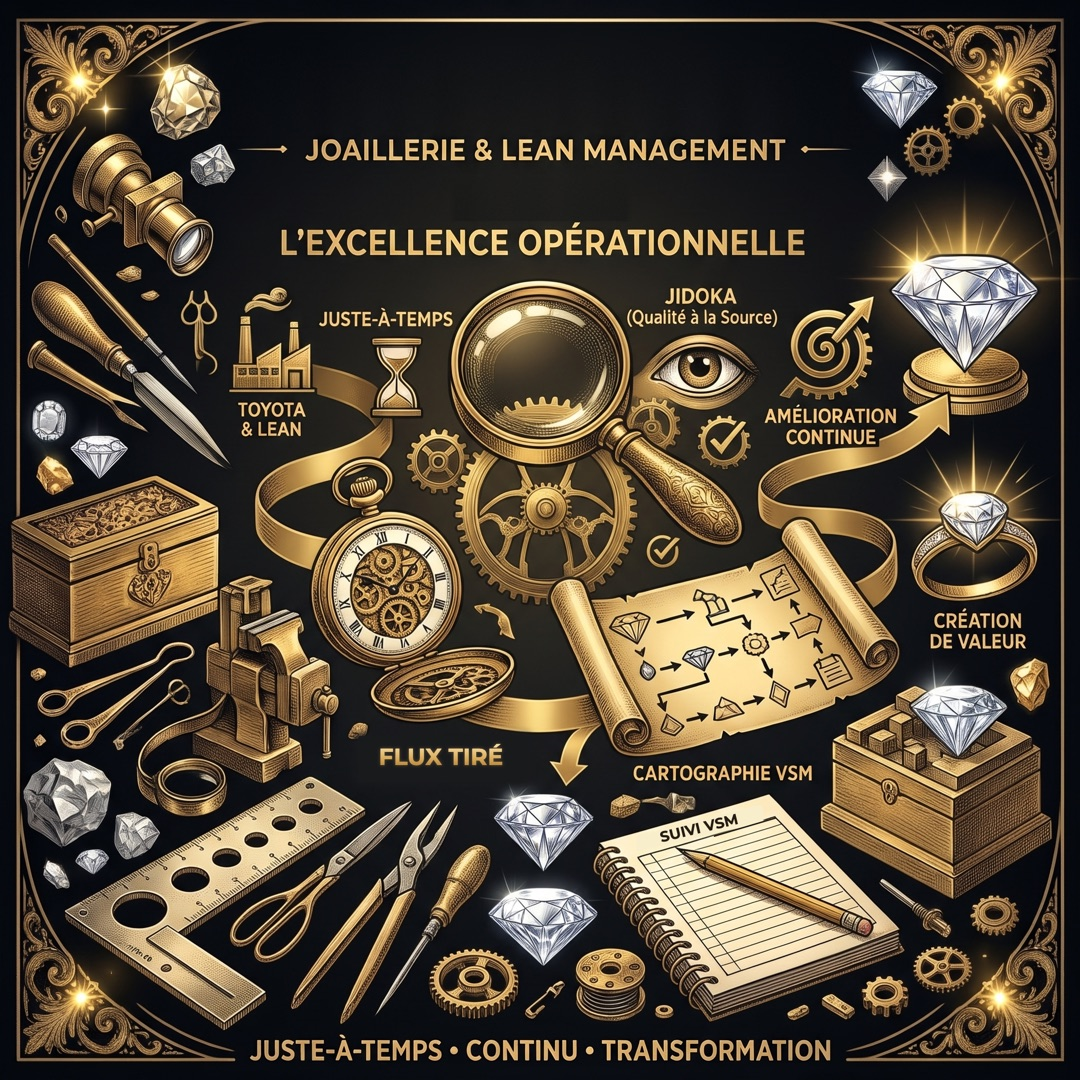
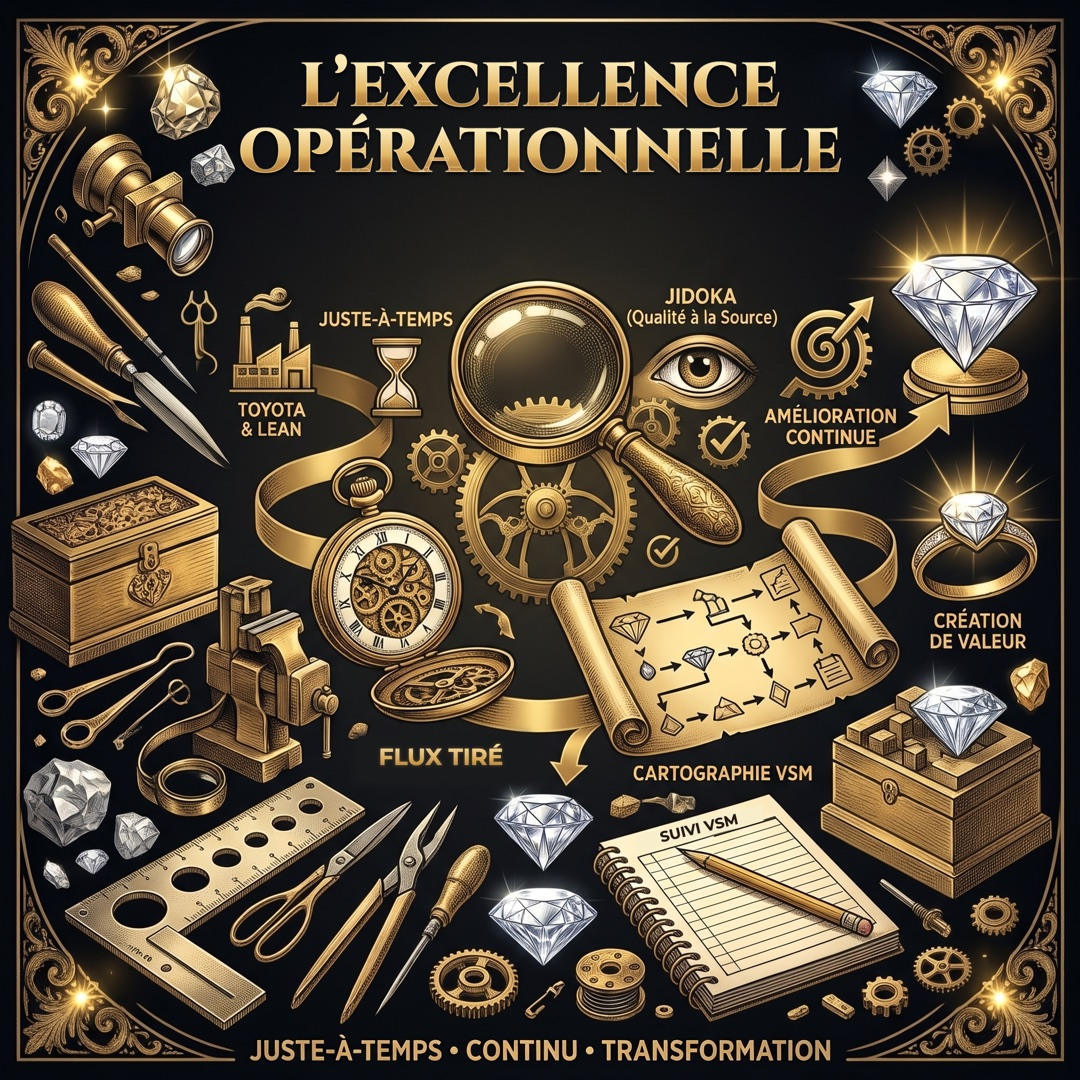
style: thème en titre en haut des illustrations 2 à 4
- Retire « JOAILLERIE & LEAN MANAGEMENT », « ÉPISODE N » et l'ancien thème
- Thème réécrit en haut en taille de titre (Cinzel doré)
- Fond reconstitué par diffusion multi-échelle (plus de raccords visibles)

Changed region(s): [[0.2139, 0.0306, 0.7944, 0.1833], [0.2444, 0.2139, 0.7639, 0.2444]]

diff --git a/design/retouches/retouch.html b/design/retouches/retouch.html
@@ -1,6 +1,6 @@
 <!doctype html>
 <html><head><meta charset="utf-8">
-<link href="https://fonts.googleapis.com/css2?family=Montserrat:wght@600;700&display=swap" rel="stylesheet">
+<link href="https://fonts.googleapis.com/css2?family=Cinzel:wght@700;800&family=Montserrat:wght@600;700&display=swap" rel="stylesheet">
 <style>html,body{margin:0;background:#000}canvas{display:block}</style>
 </head><body>
 <canvas id="c" width="2048" height="2048"></canvas>
@@ -9,7 +9,8 @@
 // Usage : retouch.html?ep=N  → rendu à capturer avec Chrome headless.
 //
 // Toutes les images : suppression du titre « L'ÉCLAT MAÎTRISÉ ».
-// Épisodes 2 à 4 : suppression de la ligne « ÉPISODE N ».
+// Épisodes 2 à 4 : suppression de « JOAILLERIE & LEAN MANAGEMENT », de la ligne
+// « ÉPISODE N » et du thème, puis thème réécrit en haut, en taille de titre.
 // Épisode 2 : corrections de texte (doublon Jidoka, faute sur le carnet).
 
 const EP = Number(new URLSearchParams(location.search).get('ep'));
@@ -17,58 +18,122 @@ const EP = Number(new URLSearchParams(location.search).get('ep'));
 // Zones à effacer [x0, y0, x1, y1] (coordonnées de l'original 2048 px)
 const ERASE = {
   1: [[432, 88, 1622, 250]],
-  2: [[432, 88, 1622, 250], [850, 332, 1200, 421, 'top']],
-  3: [[400, 70, 1650, 250], [560, 332, 1510, 421, 'top']],
-  4: [[400, 70, 1650, 250], [560, 332, 1510, 421, 'top']],
+  2: [[432, 88, 1622, 250], [450, 250, 1620, 320, 'top'], [850, 320, 1200, 421, 'top'], [500, 421, 1555, 496, 'top']],
+  3: [[400, 70, 1650, 250], [178, 236, 1870, 334], [560, 320, 1510, 421, 'top'], [690, 421, 1360, 496, 'top']],
+  4: [[400, 70, 1650, 250], [178, 236, 1870, 334], [560, 320, 1510, 421, 'top'], [735, 421, 1315, 496, 'top']],
+};
+
+// Thème réécrit en haut, en taille de titre : lignes, centres verticaux, largeur max
+const TITLE = {
+  2: { lines: ['L’EXCELLENCE', 'OPÉRATIONNELLE'], y: [175, 300], maxWidth: 1150, maxSize: 118 },
+  3: { lines: ['LES 7 GASPILLAGES'], y: [185], maxWidth: 1220, maxSize: 132 },
+  4: { lines: ['LE 5S À L’ÉTABLI'], y: [185], maxWidth: 1220, maxSize: 132 },
 };
 
 const lum = (r, g, b) => 0.2126 * r + 0.7152 * g + 0.0722 * b;
 
-// Reconstitue le fond d'une zone : pour chaque colonne, interpolation verticale
-// entre la teinte (pixels sombres) juste au-dessus et juste en dessous
-// (mode 'top' : teinte du dessus seulement, quand le dessous touche un texte),
-// léger grain pour imiter la texture, bords fondus dans l'original.
-function erase(ctx, [x0, y0, x1, y1, mode], feather = 14) {
-  const pad = 6, w = x1 - x0, h = y1 - y0;
-  const above = ctx.getImageData(x0, y0 - pad, w, pad).data;
-  const below = ctx.getImageData(x0, y1, w, pad).data;
-  const orig = ctx.getImageData(x0, y0, w, h);
-  const out = ctx.createImageData(w, h);
+// Reconstitue le fond de toutes les zones à la fois par diffusion (inpainting
+// harmonique multi-échelle) : chaque pixel effacé prend la moyenne de ses voisins,
+// jusqu'à un fond continu qui raccorde partout avec le pourtour, sans raccords.
+// Les pixels clairs du pourtour (texte, ornements) sont assombris pour ne pas
+// « baver » dans la zone. Un léger grain imite ensuite la texture.
+function eraseAll(ctx, zones) {
+  if (!zones.length) return;
+  const M = 24;
+  let bx0 = Math.min(...zones.map(z => z[0])) - M, by0 = Math.min(...zones.map(z => z[1])) - M;
+  let bx1 = Math.max(...zones.map(z => z[2])) + M, by1 = Math.max(...zones.map(z => z[3])) + M;
+  bx0 = Math.max(0, bx0); by0 = Math.max(0, by0); bx1 = Math.min(2048, bx1); by1 = Math.min(2048, by1);
+  const w = bx1 - bx0, h = by1 - by0, N = w * h;
+  const img = ctx.getImageData(bx0, by0, w, h);
+  const mask = new Uint8Array(N);
+  zones.forEach(([x0, y0, x1, y1]) => {
+    for (let y = y0; y < y1; y++) for (let x = x0; x < x1; x++) mask[(y - by0) * w + (x - bx0)] = 1;
+  });
+  const C = [new Float32Array(N), new Float32Array(N), new Float32Array(N)];
+  const CAP = 55;
+  for (let i = 0; i < N; i++) {
+    let r = img.data[i * 4], g = img.data[i * 4 + 1], b = img.data[i * 4 + 2];
+    const l = lum(r, g, b);
+    if (!mask[i] && l > CAP) { const f = CAP / l; r *= f; g *= f; b *= f; }
+    C[0][i] = r; C[1][i] = g; C[2][i] = b;
+  }
 
-  const strip = (data, x) => {
-    let r = 0, g = 0, b = 0, n = 0;
-    for (let dx = -16; dx <= 16; dx += 2) {
-      const xx = Math.min(w - 1, Math.max(0, x + dx));
-      for (let y = 0; y < pad; y++) {
-        const i = (y * w + xx) * 4;
-        if (lum(data[i], data[i + 1], data[i + 2]) < 45) { r += data[i]; g += data[i + 1]; b += data[i + 2]; n++; }
+  // 1) Grossier (cellules de 8 px) : beaucoup d'itérations pour les grandes longueurs d'onde
+  const F = 8, cw = Math.ceil(w / F), ch = Math.ceil(h / F), CN = cw * ch;
+  const cknown = new Uint8Array(CN), cv = [new Float32Array(CN), new Float32Array(CN), new Float32Array(CN)];
+  for (let cy = 0; cy < ch; cy++) for (let cx = 0; cx < cw; cx++) {
+    let n = 0, s0 = 0, s1 = 0, s2 = 0;
+    for (let y = cy * F; y < Math.min(h, cy * F + F); y++) for (let x = cx * F; x < Math.min(w, cx * F + F); x++) {
+      const i = y * w + x; if (!mask[i]) { n++; s0 += C[0][i]; s1 += C[1][i]; s2 += C[2][i]; }
+    }
+    const k = cy * cw + cx;
+    if (n > F * F / 2) { cknown[k] = 1; cv[0][k] = s0 / n; cv[1][k] = s1 / n; cv[2][k] = s2 / n; }
+    else { cv[0][k] = 20; cv[1][k] = 20; cv[2][k] = 22; }
+  }
+  for (let it = 0; it < 3000; it++) {
+    for (let cy = 0; cy < ch; cy++) for (let cx = 0; cx < cw; cx++) {
+      const k = cy * cw + cx; if (cknown[k]) continue;
+      for (let c = 0; c < 3; c++) {
+        let s = 0, n = 0;
+        if (cx > 0) { s += cv[c][k - 1]; n++; } if (cx < cw - 1) { s += cv[c][k + 1]; n++; }
+        if (cy > 0) { s += cv[c][k - cw]; n++; } if (cy < ch - 1) { s += cv[c][k + cw]; n++; }
+        cv[c][k] = s / n;
       }
     }
-    return n ? [r / n, g / n, b / n] : [16, 16, 20];
+  }
+  // 2) Initialisation pleine résolution par interpolation bilinéaire du grossier
+  const sample = (c, fx, fy) => {
+    const x = Math.min(cw - 1, Math.max(0, fx)), y = Math.min(ch - 1, Math.max(0, fy));
+    const x0 = Math.floor(x), y0 = Math.floor(y), x1 = Math.min(cw - 1, x0 + 1), y1 = Math.min(ch - 1, y0 + 1);
+    const tx = x - x0, ty = y - y0;
+    return (cv[c][y0 * cw + x0] * (1 - tx) + cv[c][y0 * cw + x1] * tx) * (1 - ty) +
+           (cv[c][y1 * cw + x0] * (1 - tx) + cv[c][y1 * cw + x1] * tx) * ty;
   };
-
-  const top = [], bot = [];
-  for (let x = 0; x < w; x++) { top.push(strip(above, x)); bot.push(strip(below, x)); }
-
-  let seed = 1234;
-  const rand = () => ((seed = (seed * 16807) % 2147483647) / 2147483647) - 0.5;
-
-  for (let y = 0; y < h; y++) {
-    const t = mode === 'top' ? 0 : y / (h - 1);
-    for (let x = 0; x < w; x++) {
-      const i = (y * w + x) * 4;
-      const n = rand() * 5;
-      const fill = [0, 1, 2].map(k => top[x][k] * (1 - t) + bot[x][k] * t + n);
-      // fondu sur les bords
-      // en mode 'top', fondu très court en bas (le texte du thème commence juste dessous)
-      const db = mode === 'top' ? (h - 1 - y) * 5 : h - 1 - y;
-      const d = Math.min(x, w - 1 - x, y, db);
-      const a = Math.min(1, d / feather);
-      for (let k = 0; k < 3; k++) out.data[i + k] = fill[k] * a + orig.data[i + k] * (1 - a);
-      out.data[i + 3] = 255;
+  for (let y = 0; y < h; y++) for (let x = 0; x < w; x++) {
+    const i = y * w + x; if (!mask[i]) continue;
+    for (let c = 0; c < 3; c++) C[c][i] = sample(c, x / F - 0.5, y / F - 0.5);
+  }
+  // 3) Affinage pleine résolution (raccord précis avec le pourtour)
+  for (let it = 0; it < 120; it++) {
+    for (let y = 1; y < h - 1; y++) for (let x = 1; x < w - 1; x++) {
+      const i = y * w + x; if (!mask[i]) continue;
+      for (let c = 0; c < 3; c++) C[c][i] = (C[c][i - 1] + C[c][i + 1] + C[c][i - w] + C[c][i + w]) / 4;
     }
   }
-  ctx.putImageData(out, x0, y0);
+  // 4) Grain et écriture
+  let seed = 1234;
+  const rand = () => ((seed = (seed * 16807) % 2147483647) / 2147483647) - 0.5;
+  for (let i = 0; i < N; i++) {
+    if (!mask[i]) continue;
+    const n = rand() * 5;
+    img.data[i * 4] = C[0][i] + n; img.data[i * 4 + 1] = C[1][i] + n; img.data[i * 4 + 2] = C[2][i] + n;
+  }
+  ctx.putImageData(img, bx0, by0);
+}
+
+// Titre doré gravé, police à empattements (proche de l'ancien « L'ÉCLAT MAÎTRISÉ »)
+function drawTitle(ctx, { lines, y, maxWidth, maxSize }) {
+  const font = size => `800 ${size}px Cinzel`;
+  let size = maxSize;
+  ctx.font = font(size);
+  while (size > 40 && Math.max(...lines.map(l => ctx.measureText(l).width)) > maxWidth) ctx.font = font(--size);
+  lines.forEach((text, i) => {
+    const cy = y[i];
+    ctx.save();
+    ctx.font = font(size); ctx.textAlign = 'center'; ctx.textBaseline = 'middle';
+    // halo doux
+    ctx.shadowColor = 'rgba(240,190,100,.45)'; ctx.shadowBlur = 28;
+    ctx.fillStyle = 'rgba(0,0,0,0)'; ctx.fillText(text, 1024, cy);
+    // ombre portée sombre (relief)
+    ctx.shadowColor = 'rgba(0,0,0,.85)'; ctx.shadowBlur = 6; ctx.shadowOffsetY = 4;
+    const g = ctx.createLinearGradient(0, cy - size * 0.45, 0, cy + size * 0.45);
+    g.addColorStop(0, '#fbe7b0'); g.addColorStop(0.45, '#e2b764'); g.addColorStop(0.55, '#c8944a'); g.addColorStop(1, '#9c6a26');
+    ctx.fillStyle = g; ctx.fillText(text, 1024, cy);
+    // liseré clair en haut des lettres
+    ctx.shadowColor = 'transparent';
+    ctx.lineWidth = 1.4; ctx.strokeStyle = 'rgba(255,240,200,.55)'; ctx.strokeText(text, 1024, cy - 1);
+    ctx.restore();
+  });
 }
 
 // ---------- Corrections propres à l'épisode 2 ----------
@@ -119,11 +184,13 @@ function fixEpisode2(ctx) {
 
 (async () => {
   await document.fonts.load('700 40px Montserrat');
+  await document.fonts.load('800 100px Cinzel');
   const img = new Image(); img.src = `ep-${EP}-gemini.jpg`; await img.decode();
   const ctx = document.getElementById('c').getContext('2d', { willReadFrequently: true });
   ctx.drawImage(img, 0, 0);
   if (EP === 2) fixEpisode2(ctx);
-  (ERASE[EP] || []).forEach(z => erase(ctx, z));
+  eraseAll(ctx, ERASE[EP] || []);
+  if (TITLE[EP]) drawTitle(ctx, TITLE[EP]);
   document.title = 'done';
 })();
 </script>
